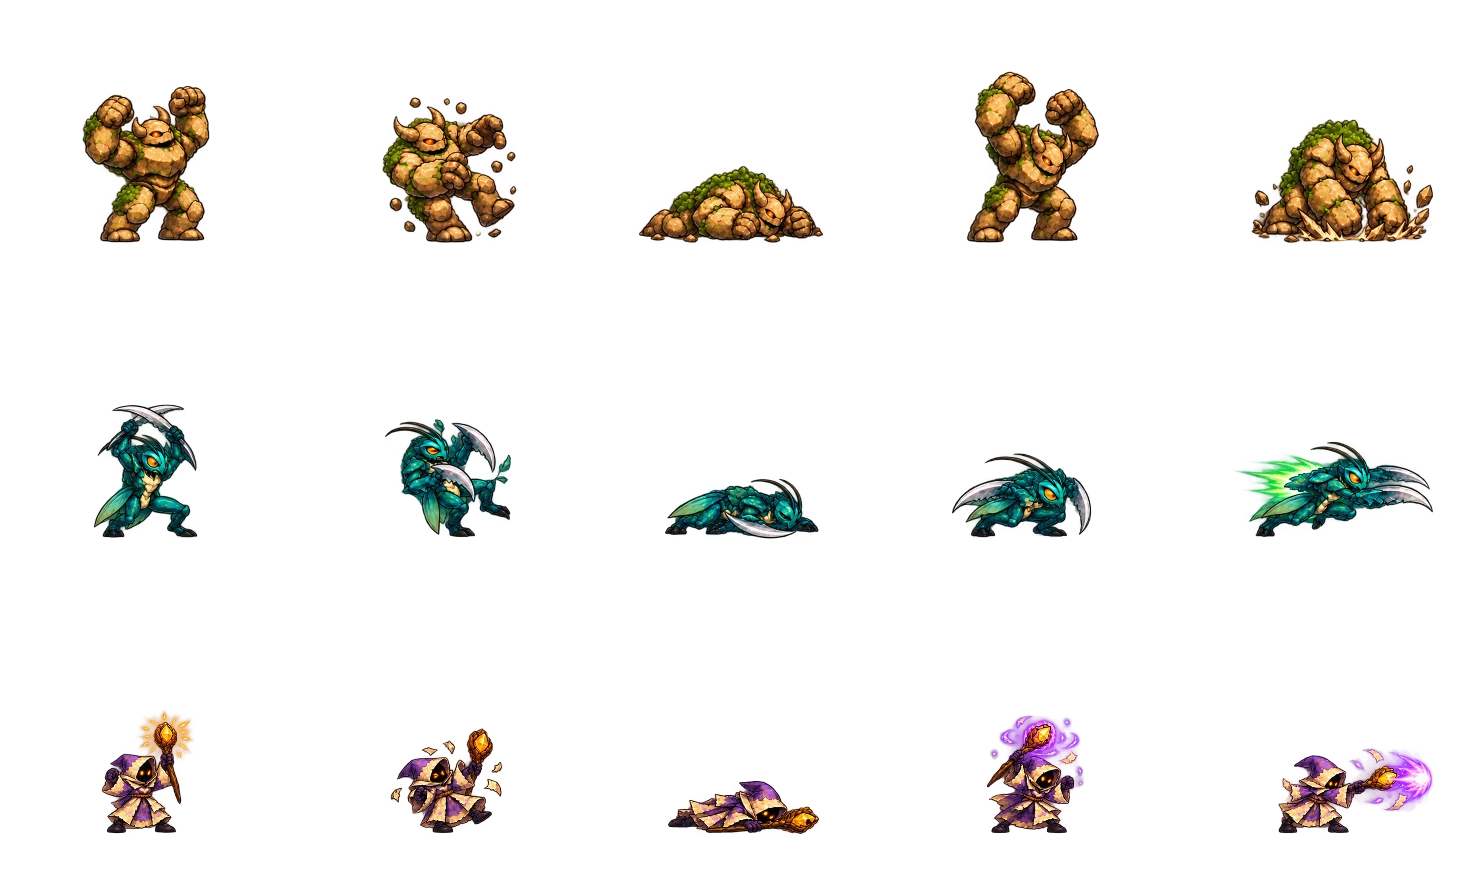
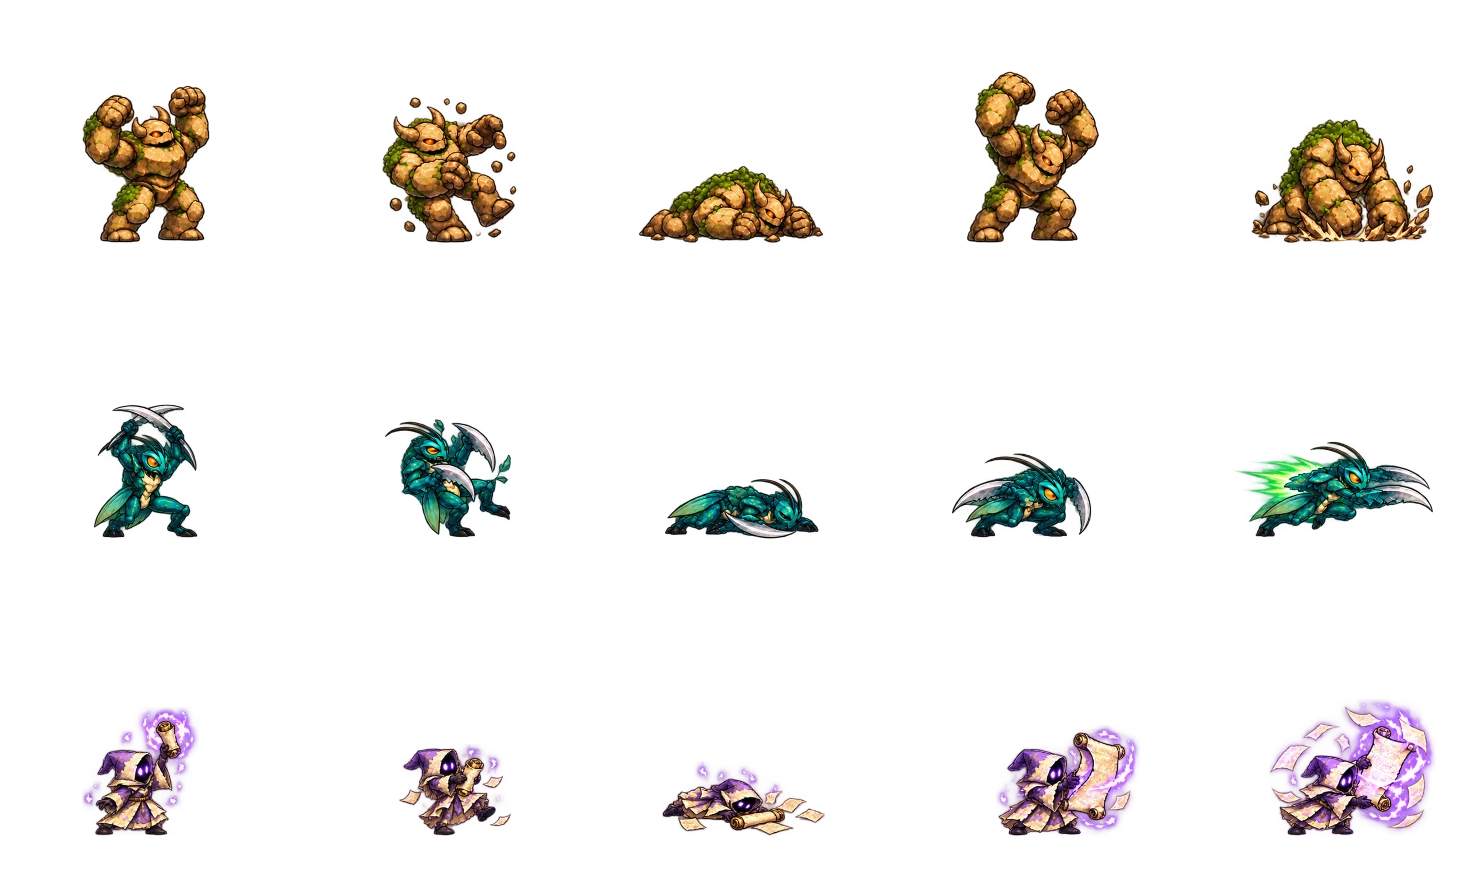
CheRPSs: painted White/Black realms, black figurines, scroll-mage Paper
- New square courtyards per realm (realm-white/realm-black) replace the
  tinted day/night courtyard.
- Real White/Black figurine and bench-reaction sheets; drop the code and
  CSS darkening stand-ins.
- Paper is now a scroll mage: new sprite rows, re-measured anchors and
  icon crop, and its bolt drawn as a spinning parchment rune.
- Bench labels readable on the white realm.

Claude-Session: https://claude.ai/code/session_019YEF7XW4WiHw6Qw2cNpGDr

diff --git a/cherpss/art.html b/cherpss/art.html
@@ -1,4 +1,4 @@
-<!doctype html><html lang="en"><head><meta charset="utf-8"><meta name="viewport" content="width=device-width,initial-scale=1"><meta name="robots" content="noindex,nofollow"><meta name="theme-color" content="#1a0a00"><title>CheRPSs · The painted arena</title><link rel="icon" href="../favicon.svg" type="image/svg+xml"><link rel="stylesheet" href="style.css?v=2"><link rel="stylesheet" href="theme.css?v=5"><link rel="stylesheet" href="art.css?v=1"></head><body>
+<!doctype html><html lang="en"><head><meta charset="utf-8"><meta name="viewport" content="width=device-width,initial-scale=1"><meta name="robots" content="noindex,nofollow"><meta name="theme-color" content="#1a0a00"><title>CheRPSs · The painted arena</title><link rel="icon" href="../favicon.svg" type="image/svg+xml"><link rel="stylesheet" href="style.css?v=2"><link rel="stylesheet" href="theme.css?v=6"><link rel="stylesheet" href="art.css?v=1"></head><body>
 <header><a class="brand" href="./"><span class="brand-mark">♞</span><span>CheRPSs<small>BOARD & BRAWL</small></span></a><a class="back-link" href="./">Back to the game ↗</a></header>
 <main class="art-main"><div class="art-intro"><span class="eyebrow">THE PAINTED ARENA</span><h1>A little courtyard. A lot of character.</h1><p>Three illustrated champions. Two supporting benches. Watch a fight in the white realm or the black.</p></div>
 <div class="art-controls"><label>Matchup<select id="pair"><option value="rock,scissors">Rock vs Scissors</option><option value="scissors,paper">Scissors vs Paper</option><option value="paper,rock">Paper vs Rock</option><option value="rock,paper">Rock vs Paper</option><option value="scissors,rock">Scissors vs Rock</option><option value="paper,scissors">Paper vs Scissors</option></select></label><div class="palette-buttons" role="group" aria-label="Arena lighting"><button id="day" aria-pressed="true">White realm</button><button id="night" aria-pressed="false">Black realm</button></div><button id="replay">Restart fight</button><button id="pause">Pause</button><button id="sound" aria-pressed="false">Sound off</button><span id="demoStatus" role="status">The champions are getting ready.</span></div>

diff --git a/cherpss/index.html b/cherpss/index.html
@@ -3,7 +3,7 @@
 <head>
  <meta charset="utf-8"><meta name="viewport" content="width=device-width,initial-scale=1"><meta name="robots" content="noindex,nofollow">
  <meta name="theme-color" content="#1a0a00"><meta name="description" content="A local two-player game of chess and monster duels. Plan on the board. Fight in the square.">
- <title>CheRPSs — Board & Brawl</title><link rel="icon" href="../favicon.svg" type="image/svg+xml"><link rel="stylesheet" href="style.css?v=2"><link rel="stylesheet" href="theme.css?v=5">
+ <title>CheRPSs — Board & Brawl</title><link rel="icon" href="../favicon.svg" type="image/svg+xml"><link rel="stylesheet" href="style.css?v=2"><link rel="stylesheet" href="theme.css?v=6">
 </head>
 <body>
 <header><a class="brand" href="./" aria-label="CheRPSs home"><span class="brand-mark">♞</span><span>CheRPSs<small>BOARD & BRAWL</small></span></a><div class="header-actions"><a class="games-link" href="../">← Games</a><span class="local-tag"><i></i> LOCAL · 2 PLAYERS</span><button id="rulesBtn" class="quiet">How to play</button><button id="newBtn" class="quiet">New match</button></div></header>

diff --git a/cherpss/theme.css b/cherpss/theme.css
@@ -24,4 +24,3 @@ button{background:rgba(255,255,255,.12);color:var(--cream);border:1px solid rgba
 .pips{display:flex;gap:4px;flex:1}.pips i{width:10px;height:10px;border-radius:50%;border:1px solid var(--ivory);opacity:.45}.pips i.on{background:var(--ivory);opacity:1}.ember .pips i{border-color:var(--ember)}.ember .pips i.on{background:var(--ember)}
 .champ-icon{display:inline-block;background-image:url(assets/champions.webp);background-repeat:no-repeat;vertical-align:middle}.champ-icon.flip{transform:scaleX(-1)}.monster-icon{overflow:visible}
 .bench-seat.at-stake{border-color:var(--green);background:rgba(232,192,96,.12)}
-.aid-figurine.b{filter:grayscale(1) brightness(.42) contrast(1.25)}
